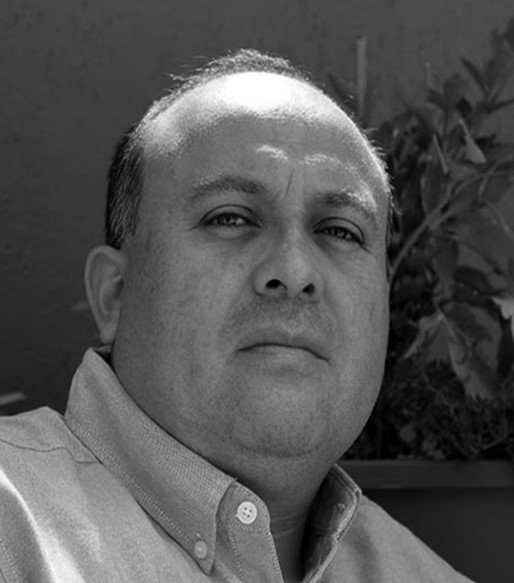
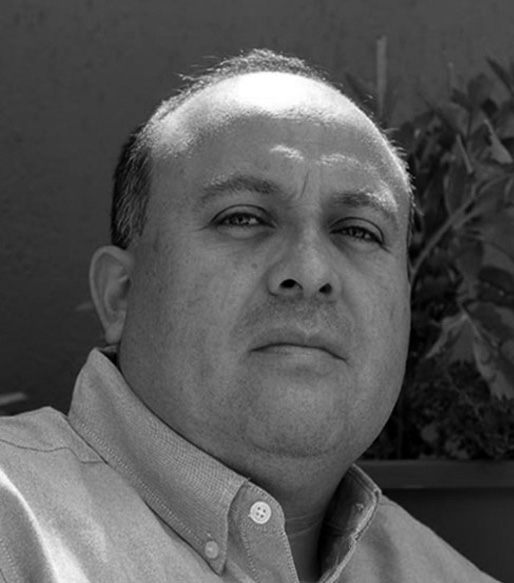
speakers photos, flags and data

diff --git a/app/data/speakers.js b/app/data/speakers.js
@@ -3,42 +3,42 @@ export const speakers = [
         name: 'Fernando Vela Cossío',
         description: 'Arqueólogo. Licenciado en Geografía e Historia (sección Historia, especialidad en Prehistoria) (1987) y Doctor en Geografía e Historia por la Universidad Complutense de Madrid (2003). Catedrático de Universidad, adscrito al Departamento de Composición Arquitectónica de la Escuela Técnica Superior de Arquitectura de la Universidad Politécnica de Madrid.',
         link: 'https://scholar.google.com/citations?hl=es&user=4CSGsTYAAAAJ',
-        image: '/img/members/ines.jpg',
+        image: '/img/speakers/fernandoVela.jpg',
         country: '/img/speakers/spain.svg'
     },
     {
         name: 'Alfonso Muñoz Cosme',
         description: 'Doctor arquitecto por la Universidad Politécnica de Valencia y catedrático de la Universidad Politécnica de Madrid. Ha sido subdirector general de Información e Investigación en el Ministerio de Cultura, director del Instituto Cervantes en Múnich y en Roma, gerente de la Fundación Cultural COAM y subdirector general del Instituto del Patrimonio Cultural de España.',
         link: 'https://scholar.google.com/citations?hl=es&user=QHXfviwAAAAJ',
-        image: '/img/members/ines.jpg',
+        image: '/img/speakers/alfonsoMunoz.jpg',
         country: '/img/speakers/spain.svg'
     },
     {
         name: 'Sol López de Andrés',
         description: 'Profesora Titular del Departamento de Cristalografía de la Facultad de Geológicas de la Universidad Complutense de Madrid. Directora del Centro de Asistencia a la Investigación de Técnicas Geológicas. Desde hace más de 30 años ha impartido docencia en el área de la Cristalografía, en licenciatura, grado, posgrado, máster y doctorado y ha desarrollado su actividad investigadora en caracterización de materiales y síntesis y crecimiento de cristales.',
         link: 'https://scholar.google.com/citations?hl=es&user=3OY2yZ8AAAAJ',
-        image: '/img/members/ines.jpg',
+        image: '/img/speakers/solLopez.jpg',
         country: '/img/speakers/spain.svg'
     },
     {
         name: 'David Sanz Arauz',
         description: 'Geólogo, PhD Geological Sciences, Máster en Restauración Arquitectónica. Desde 2000 es Profesor Asociado en el Departamento de Construcción y Tecnología Arquitectónicas de la Escuela Técnica Superior de Arquitectura de Madrid. En la actualidad es adjunto a la Subdirección de Doctorado, Postgrado e Investigación de la Escuela Técnica Superior de Arquitectura de Madrid.',
         link: 'https://scholar.google.com/citations?hl=es&user=hILNZyEAAAAJ',
-        image: '/img/members/ines.jpg',
+        image: '/img/speakers/davidSanz.jpg',
         country: '/img/speakers/spain.svg'
     },
     {
         name: 'Andrea Pane',
         description: 'Andrea Pane (Nápoles, 2 de marzo de 1971), arquitecto y doctor en Conservación del Patrimonio Arquitectónico, es Profesora Titular de Restauración (concurso sector 08/E2 – Restauración e Historia de la Arquitectura – sector científico disciplinario ICAR/19 – Restauración) en el Departamento de Arquitectura de la Universidad de Nápoles Federico II desde el 1 de marzo de 2023 (D.R. n. 611 del 27 de febrero de 2023).',
         link: 'https://scholar.google.com/citations?user=ulpgLUwAAAAJ&hl=es&oi=ao',
-        image: '/img/members/ines.jpg',
-        country: '/img/speakers/spain.svg'
+        image: '/img/speakers/andreaPane.jpg',
+        country: '/img/speakers/italy.svg'
     },
     {
         name: 'Angélica Chica Segovia',
         description: 'Arquitecta de la Universidad Nacional de Colombia, patóloga y rehabilitadora de edificaciones de la Universidad de Le Havre y la Escuela de arquitectura de Rouen, magister en construcción de la Universidad Nacional de Colombia y doctora en Arte y arquitectura de la misma universidad. Constructora y consultora en patología y restauración de edificaciones, investigadora en el campo de la patología, los materiales, las técnicas, los sistemas y la historia de la construcción.',
         link: 'https://scholar.google.com/citations?hl=es&user=nUp92CYAAAAJ',
-        image: '/img/members/ines.jpg',
-        country: '/img/speakers/spain.svg'
+        image: '/img/speakers/angelicaChica.jpg',
+        country: '/img/speakers/colombia.svg'
     }
 ]

diff --git a/app/components/universities/universities.js b/app/components/universities/universities.js
@@ -1,16 +1,25 @@
 import styles from './universities.module.css'
 import Image from 'next/image'
-import universities from '../../../public/img/logos/logosUniversities.jpg'
+import { universities } from '@/app/data/universities'
+import Link from 'next/link'
 
 export default function Universities() {
   return (
     <section className={styles.ctUniv}>
-        <Image
-          src={universities}
-          alt='logos de las universidades colaboradoras'
-          sizes="100%"
-          className={styles.imgUniv}
-        />
-      </section>
+      {
+        universities.map((university, index) => (
+          <Link href={university.href} key={index} target='_blank' className={styles.aUniv}>
+            <Image
+              src={university.image}
+              alt={university.alt}
+              width={100}
+              height={100}
+              className={styles.imgUniv}
+            />
+          </Link>
+          
+        ))
+      }
+    </section>
   )
 }

diff --git a/app/components/universities/universities.module.css b/app/components/universities/universities.module.css
@@ -1,22 +1,30 @@
 .ctUniv {
     display: flex;
-    justify-content: center;
+    justify-content: space-evenly;
     align-items: center;
     width: 60%;
     height: 67px;
     background-color: var(--white-color);
     border-radius: 0px 0px 30px 30px;
+    padding: 20px 50px;
 }
 
 .imgUniv {
     width: 80%;
-    height: 100%;
+    height: 80%;
     object-fit: contain;
+}
+
+.aUniv {
+    display: flex;
+    justify-content: center;
+    align-items: center;
 }
 
 @media screen and (max-width: 576px) {
     .ctUniv {
         width: 100%;
         border-radius: 0px;
+        padding: 0px 20px;
     }
 }

diff --git a/app/components/dates/dates.js b/app/components/dates/dates.js
@@ -4,7 +4,7 @@ export default function Dates() {
   return (
     <>
     <div className={styles.ctDate}>
-        <h4>16, 17, 18, 19 Octubre</h4>
+        <h4>13, 14, 15, 16 Noviembre</h4>
         <ul className={styles.ctCities}>
           <li><span>Quito</span></li>
           <li><span>Cuenca</span></li>
@@ -12,7 +12,7 @@ export default function Dates() {
     </div>
 
     <div className={styles.ctDateM}>
-        <h4>16 - 19 Octubre</h4>
+        <h4>13 - 16 Noviembre</h4>
         <ul className={styles.ctCities}>
             <li><span>Quito</span></li>
             <li><span>Cuenca</span></li>

diff --git a/app/data/universities.js b/app/data/universities.js
@@ -1,0 +1,18 @@
+export const universities = [
+    {
+        image: '/img/logos/puce.jpg',
+        href: 'https://www.puce.edu.ec/'
+    },
+    {
+        image: '/img/logos/uide.jpg',
+        href: 'https://www.uide.edu.ec/'
+    },
+    {
+        image: '/img/logos/ucacue.jpg',
+        href: 'https://www.ucacue.edu.ec/'
+    },{
+        image: '/img/logos/ucsg.jpg',
+        href: 'https://www.ucsg.edu.ec/'
+    }
+
+]

diff --git a/app/components/dates/dates.module.css b/app/components/dates/dates.module.css
@@ -2,7 +2,7 @@
     display: flex;
     justify-content: space-between;
     align-items: center;
-    width: 45%;
+    width: 50%;
     margin: 5%;
 }
 
@@ -44,7 +44,7 @@
         display: flex;
         justify-content: space-between;
         align-items: center;
-        width: 35%;
+        width: 40%;
         margin: 5%;
     }
     .ctDateM h4 {
